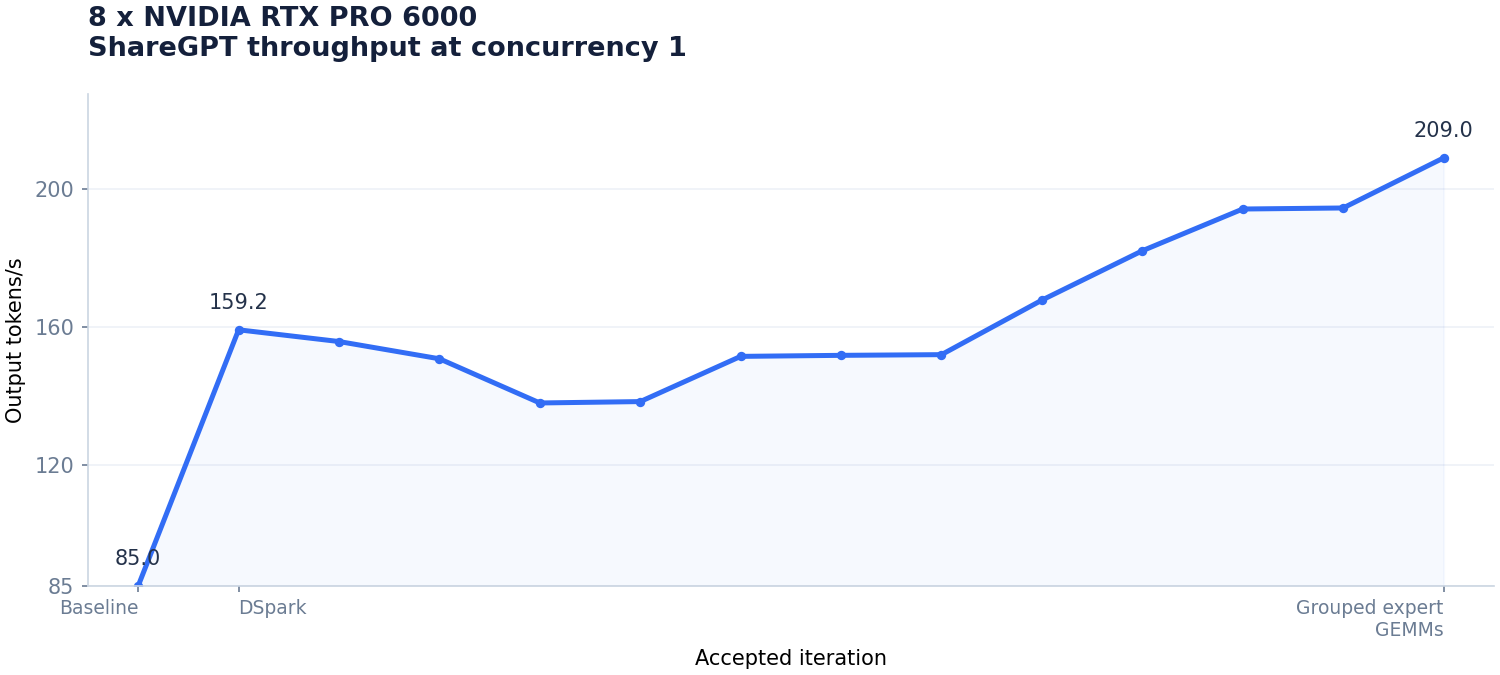
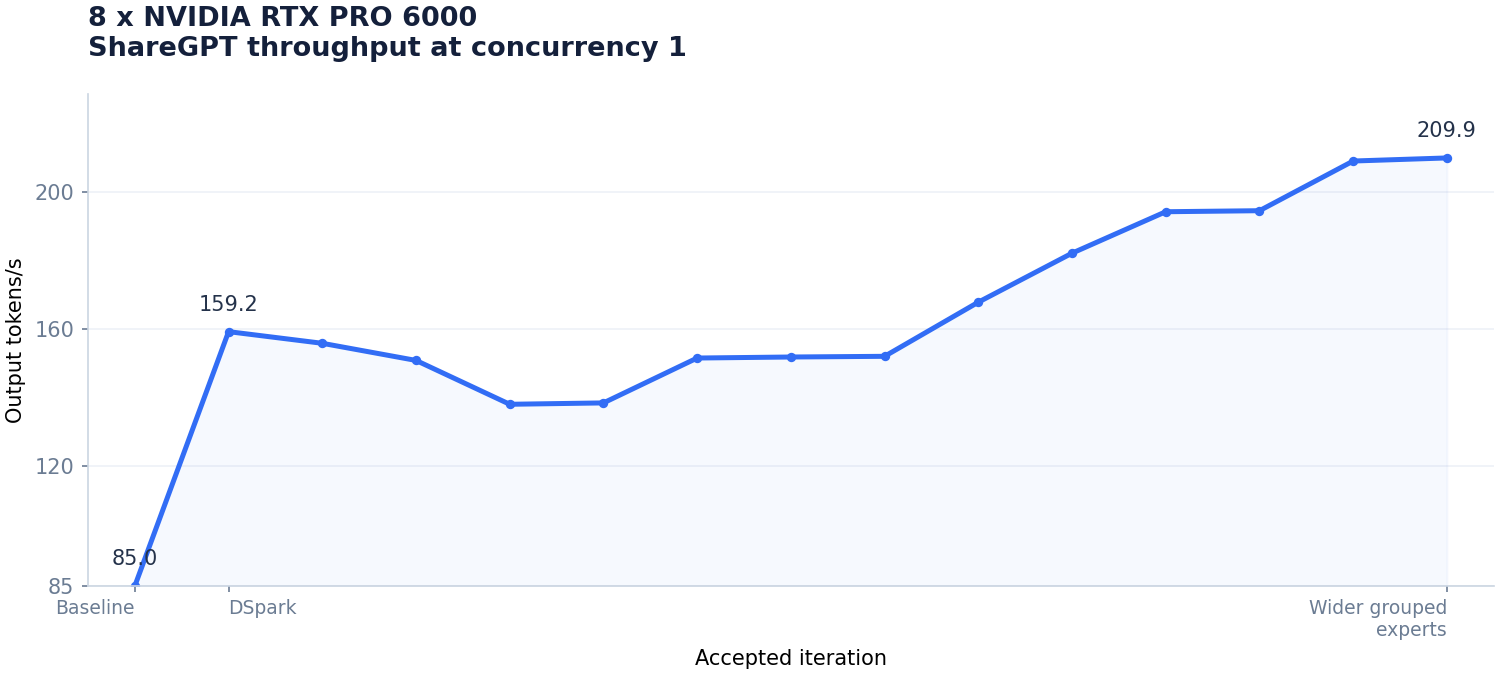
Widen grouped expert batches

diff --git a/8-nvidia-rtx-pro-6000/CHANGELOG.md b/8-nvidia-rtx-pro-6000/CHANGELOG.md
@@ -4,11 +4,9 @@ The patch is cumulative against `vllm/vllm-openai:v0.32.0`; every working milest
 
 FlashInfer 0.7.1 replaces the bundled 0.7.0.post1 for runtime page-size support, and both the sm120 compatibility patch and `--block-size 64` are required.
 
-## 14. Grouped expert GEMMs
+## 15. Wider grouped experts
 
-- Use the grouped sm120 GEMMs already provided by FlashInfer 0.7.1 in diff.patch for two-to-four-row expert batches because they avoid scalar dot-product loops.
-- Cache transposed scales so each decode step can reuse FlashInfer’s scale layout.
-- Keep the existing one-row kernel because grouped dispatch adds overhead for that batch size.
+- Extend the grouped expert path in diff.patch from four to sixteen rows because it is faster than DeepGEMM for those batches.
 
 Requirements, on a fresh vLLM image:
 
@@ -42,14 +40,14 @@ vllm serve deepseek-ai/DeepSeek-V4.1-Flash-1017 \
 
 | Concurrency | Prompts | Output t/s | p95 TTFT (ms) | p95 TPOT (ms) |
 |---:|---:|---:|---:|---:|
-| 1 | 128 | 209.0 | 129.4 | 5.88 |
-| 4 | 128 | 422.1 | 113.0 | 11.60 |
-| 8 | 128 | 598.6 | 213.6 | 16.86 |
-| 16 | 128 | 849.2 | 276.5 | 22.39 |
-| 32 | 128 | 1152.1 | 519.7 | 31.86 |
-| 64 | 128 | 1476.6 | 827.4 | 44.20 |
-| 128 | 256 | 2099.3 | 1414.5 | 72.53 |
-| 256 | 512 | 2827.0 | 2794.2 | 140.71 |
+| 1 | 128 | 209.9 | 127.3 | 5.89 |
+| 4 | 128 | 521.0 | 110.6 | 9.27 |
+| 8 | 128 | 722.4 | 209.9 | 12.94 |
+| 16 | 128 | 859.5 | 279.6 | 22.26 |
+| 32 | 128 | 1180.9 | 388.0 | 31.87 |
+| 64 | 128 | 1548.2 | 795.2 | 48.56 |
+| 128 | 256 | 2119.1 | 1424.1 | 73.18 |
+| 256 | 512 | 2860.3 | 2741.0 | 141.28 |
 
 ## Accepted progress
 
@@ -68,4 +66,5 @@ vllm serve deepseek-ai/DeepSeek-V4.1-Flash-1017 \
 | 11 | Host all-reduce | 182.1 | [`f00f364`](https://github.com/alvarobartt/DeepSeek-V4.1-Flash-RTX-PRO-6000/tree/f00f36484aed613e5b1a86566f60fdf9b9e78284) |
 | 12 | Host reduce-scatter | 194.2 | [`d6c2e43`](https://github.com/alvarobartt/DeepSeek-V4.1-Flash-RTX-PRO-6000/tree/d6c2e436e35434ee70c24ac354db8cbd22f86df8) |
 | 13 | Wider host reductions | 194.5 | [`2a5cf80`](https://github.com/alvarobartt/DeepSeek-V4.1-Flash-RTX-PRO-6000/tree/2a5cf807aa60bccd4f3ced6a49b39ee1c5f25970) |
-| 14 | Grouped expert GEMMs | 209.0 | This revision |
+| 14 | Grouped expert GEMMs | 209.0 | [`3f93e68`](https://github.com/alvarobartt/DeepSeek-V4.1-Flash-RTX-PRO-6000/tree/3f93e6858c94c6eee506cd5331e23bde65f6e38b) |
+| 15 | Wider grouped experts | 209.9 | This revision |

diff --git a/README.md b/README.md
@@ -15,14 +15,14 @@ Validated serving recipes for four and eight GPUs, using the checkpoint's origin
 
 | Concurrency | Baseline t/s [^8gpu-baseline] | Baseline + DSpark t/s | Current t/s |
 |---:|---:|---:|---:|
-| 1 | 85.0 | 159.2 (+87.3%) | **209.0 (+31.3%)** |
-| 4 | 253.2 | 380.4 (+50.2%) | **422.1 (+11.0%)** |
-| 8 | 375.4 | 496.2 (+32.2%) | **598.6 (+20.6%)** |
-| 16 | 553.1 | 650.5 (+17.6%) | **849.2 (+30.5%)** |
-| 32 | 657.4 | 954.1 (+45.1%) | **1152.1 (+20.8%)** |
-| 64 | 866.2 | 1185.0 (+36.8%) | **1476.6 (+24.6%)** |
-| 128 | 1242.4 | 1471.9 (+18.5%) | **2099.3 (+42.6%)** |
-| 256 | 1814.1 | 1726.3 (-4.8%) | **2827.0 (+63.8%)** |
+| 1 | 85.0 | 159.2 (+87.3%) | **209.9 (+31.8%)** |
+| 4 | 253.2 | 380.4 (+50.2%) | **521.0 (+37.0%)** |
+| 8 | 375.4 | 496.2 (+32.2%) | **722.4 (+45.6%)** |
+| 16 | 553.1 | 650.5 (+17.6%) | **859.5 (+32.1%)** |
+| 32 | 657.4 | 954.1 (+45.1%) | **1180.9 (+23.8%)** |
+| 64 | 866.2 | 1185.0 (+36.8%) | **1548.2 (+30.6%)** |
+| 128 | 1242.4 | 1471.9 (+18.5%) | **2119.1 (+44.0%)** |
+| 256 | 1814.1 | 1726.3 (-4.8%) | **2860.3 (+65.7%)** |
 
 ![Accepted ShareGPT c1 throughput](8-nvidia-rtx-pro-6000/throughput.png)
 
